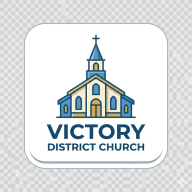
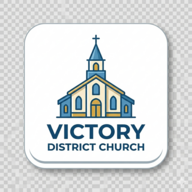
feat: complete phase 8 member management enhancements

diff --git a/resources/views/layouts/guest.blade.php b/resources/views/layouts/guest.blade.php
@@ -1,30 +1,36 @@
 <!DOCTYPE html>
 <html lang="{{ str_replace('_', '-', app()->getLocale()) }}">
-    <head>
-        <meta charset="utf-8">
-        <meta name="viewport" content="width=device-width, initial-scale=1">
-        <meta name="csrf-token" content="{{ csrf_token() }}">
 
-        <title>{{ config('app.name', 'Laravel') }}</title>
+<head>
+    <meta charset="utf-8">
+    <meta name="viewport" content="width=device-width, initial-scale=1">
+    <meta name="csrf-token" content="{{ csrf_token() }}">
 
-        <!-- Fonts -->
-        <link rel="preconnect" href="https://fonts.bunny.net">
-        <link href="https://fonts.bunny.net/css?family=figtree:400,500,600&display=swap" rel="stylesheet" />
+    <title>{{ config('app.name') }}</title>
 
-        <!-- Scripts -->
-        @vite(['resources/css/app.css', 'resources/js/app.js'])
-    </head>
-    <body class="font-sans text-gray-900 antialiased">
-        <div class="min-h-screen flex flex-col sm:justify-center items-center pt-6 sm:pt-0 bg-gray-100">
-            <div>
-                <a href="/">
-                    <x-application-logo class="w-20 h-20 fill-current text-gray-500" />
-                </a>
-            </div>
+    <!-- Fonts -->
+    <link rel="preconnect" href="https://fonts.bunny.net">
+    <link href="https://fonts.bunny.net/css?family=figtree:400,500,600&display=swap" rel="stylesheet" />
 
-            <div class="w-full sm:max-w-md mt-6 px-6 py-4 bg-white shadow-md overflow-hidden sm:rounded-lg">
-                {{ $slot }}
-            </div>
+    <!-- Scripts -->
+    @vite(['resources/css/app.css', 'resources/js/app.js'])
+</head>
+
+<body class="font-sans text-gray-900 antialiased">
+    <div class="min-h-screen flex flex-col sm:justify-center items-center pt-6 sm:pt-0 bg-gray-100">
+        <div>
+            <a href="/">
+                <img
+                    src="{{ asset('pwa-192x192.png') }}"
+                    alt="{{ config('app.name') }}"
+                    class="w-20 h-20 rounded-xl">
+            </a>
         </div>
-    </body>
+
+        <div class="w-full sm:max-w-md mt-6 px-6 py-4 bg-white shadow-md overflow-hidden sm:rounded-lg">
+            {{ $slot }}
+        </div>
+    </div>
+</body>
+
 </html>

diff --git a/config/logging.php b/config/logging.php
@@ -76,7 +76,7 @@ return [
         'slack' => [
             'driver' => 'slack',
             'url' => env('LOG_SLACK_WEBHOOK_URL'),
-            'username' => env('LOG_SLACK_USERNAME', env('APP_NAME', 'Laravel')),
+            'username' => env('LOG_SLACK_USERNAME', env('APP_NAME')),
             'emoji' => env('LOG_SLACK_EMOJI', ':boom:'),
             'level' => env('LOG_LEVEL', 'critical'),
             'replace_placeholders' => true,
@@ -89,7 +89,7 @@ return [
             'handler_with' => [
                 'host' => env('PAPERTRAIL_URL'),
                 'port' => env('PAPERTRAIL_PORT'),
-                'connectionString' => 'tls://'.env('PAPERTRAIL_URL').':'.env('PAPERTRAIL_PORT'),
+                'connectionString' => 'tls://' . env('PAPERTRAIL_URL') . ':' . env('PAPERTRAIL_PORT'),
             ],
             'processors' => [PsrLogMessageProcessor::class],
         ],

diff --git a/config/app.php b/config/app.php
@@ -13,7 +13,7 @@ return [
     |
     */
 
-    'name' => env('APP_NAME', 'Laravel'),
+    'name' => env('APP_NAME', 'ChurchHub'),
 
     /*
     |--------------------------------------------------------------------------

diff --git a/config/mail.php b/config/mail.php
@@ -112,7 +112,7 @@ return [
 
     'from' => [
         'address' => env('MAIL_FROM_ADDRESS', '[email redacted]'),
-        'name' => env('MAIL_FROM_NAME', env('APP_NAME', 'Laravel')),
+        'name' => env('MAIL_FROM_NAME', env('APP_NAME')),
     ],
 
 ];

diff --git a/resources/views/welcome.blade.php b/resources/views/welcome.blade.php
@@ -10,7 +10,7 @@
     <meta name="viewport"
         content="width=device-width, initial-scale=1">
 
-    <title>ChurchHub</title>
+    <title>{{ config('app.name') }}</title>
 
     @vite(['resources/css/app.css','resources/js/app.js'])
 

diff --git a/resources/views/components/church-logo.blade.php b/resources/views/components/church-logo.blade.php
@@ -1,0 +1,1 @@
+<img src="{{ asset('pwa-192x192.png') }}" alt="{{ config('app.name') }}" {{ $attributes }}>